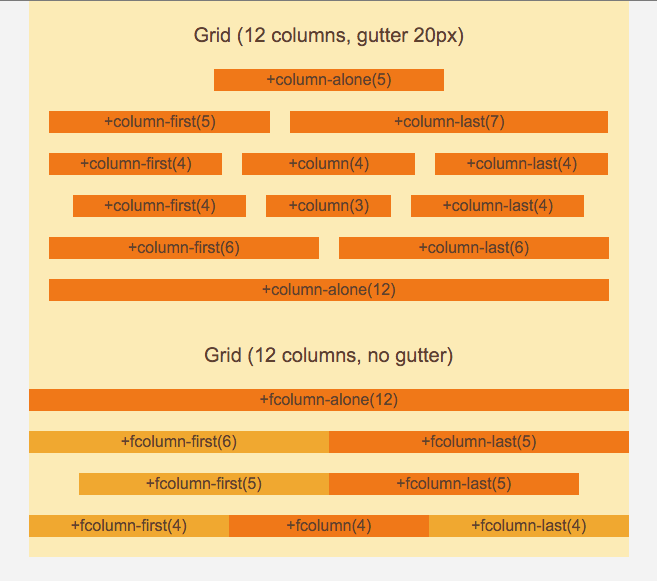
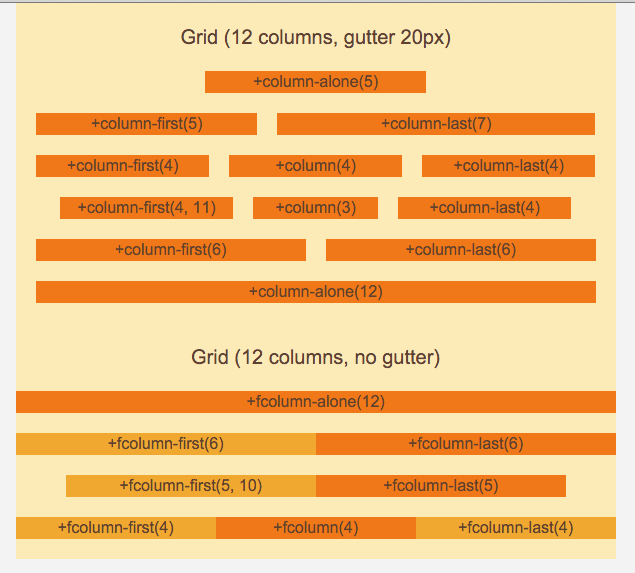
up thumb

diff --git a/README.md b/README.md
@@ -15,8 +15,42 @@ Steps use system
     
     gulp
 
+Example
 
-
+	// Block main setting
+	block mainVariables
+		- var gGutter = 20; //- gutter columns
+		- var gContainer = 600; //- width container
+		- var gColumns = 12; //- size column
+	
+	// Common wrapper-colors-center
+	+wrapper('#f3f3f3', '#fcebb6')
+		// Row line column
+		+row
+			// first column size 5 col (if summ size columns = 12)
+			+column-first(5)
+				.txt-h5.st-center Lorem text
+			// center colomn size 4 col
+			+column(4)
+				.txt-h5.st-center Lorem text
+			// last column in line 
+			+column-last(3)
+				.txt-h5.st-center Lorem text
+		
+		// Row line column
+		+row
+			// first column size 5 col (if summ size columns < 12)
+			+column-first(5, 11)
+				.txt-h5.st-center Lorem text
+			// center colomn size 3 col
+			+column(3)
+				.txt-h5.st-center Lorem text
+			// last column in line size 3 col
+			+column-last(3)
+				.txt-h5.st-center Lorem text
+			
+		
+		
    
 Also you must create file **.access.json** in root project folder for ftp load
 
